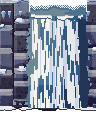
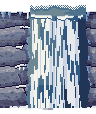
Frostline A2: the fall painted into #536's granite face
rock.rockface_fall still paints the older block face, so the fall piece showed a strip of
the old rock between the new granite panels. open_fall now paints the sheet into
rock._granite_face (the same face as its neighbours, whose panel seams and lip meet at
every edge), called from water_ice; rock.py is unchanged. The lip stays on the face's top
course (zone y 433) and the icicle fringe in its top rows. Regenerated with the usual
sequence.

Claude-Session: https://claude.ai/code/session_01UudrmtYkicLNgZeuSjvjrK

Changed region(s): [[0.0, 0.0, 1.0, 0.9737]]

diff --git a/scripts/art/kit/sets/frost/water_ice.py b/scripts/art/kit/sets/frost/water_ice.py
@@ -261,12 +261,17 @@ def sheet_foot(seed=113):
 def open_fall(seed=113):
     """The fall piece's picture as an open fall, and its loop: the sheet's 8 frames over the face
     (rock.rockface_fall paints the face and calls _icefall for the water)."""
-    from .rock import rockface_fall
+    # (after #536) the fall is painted into the same granite face as the panels either side of it
+    # (rock._granite_face, whose panel seams and lip meet at every edge), not the older block face
+    from .rock import _granite_face
     pics = []
     try:
         for t in range(FALL_FRAMES):
             _FALL_T[0] = t
-            pics.append(rockface_fall())
+            pic, a = _granite_face(4 * 24, seed)
+            _icefall(a, (0, 96), seed)
+            pic.a[:] = a
+            pics.append(pic)
     finally:
         _FALL_T[0] = 0
     p0 = pics[0]
